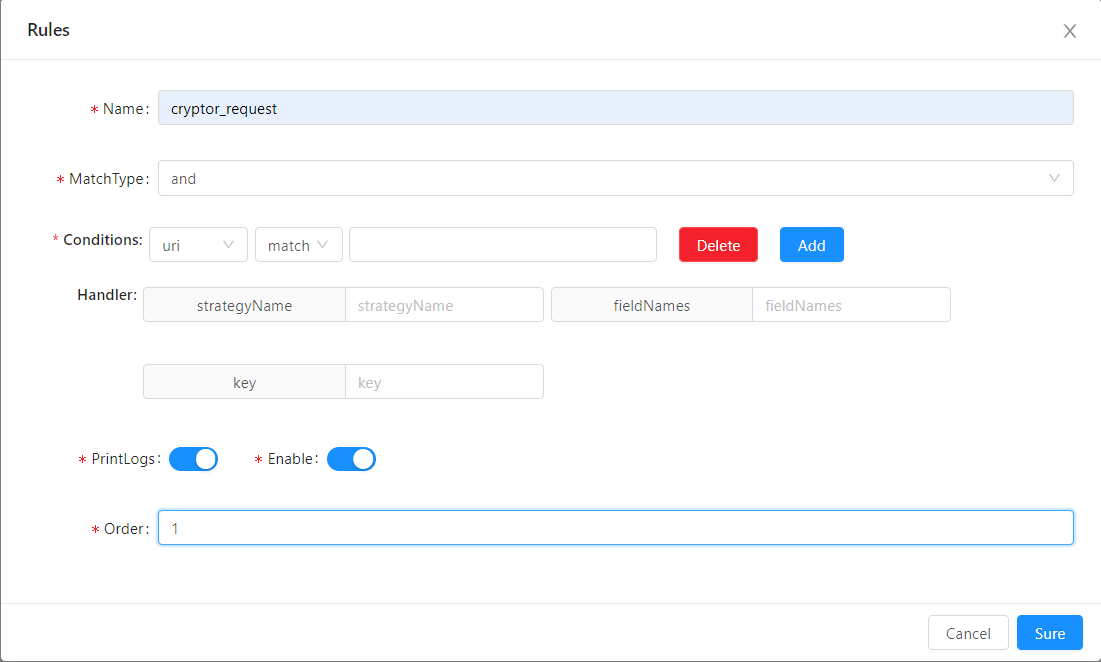
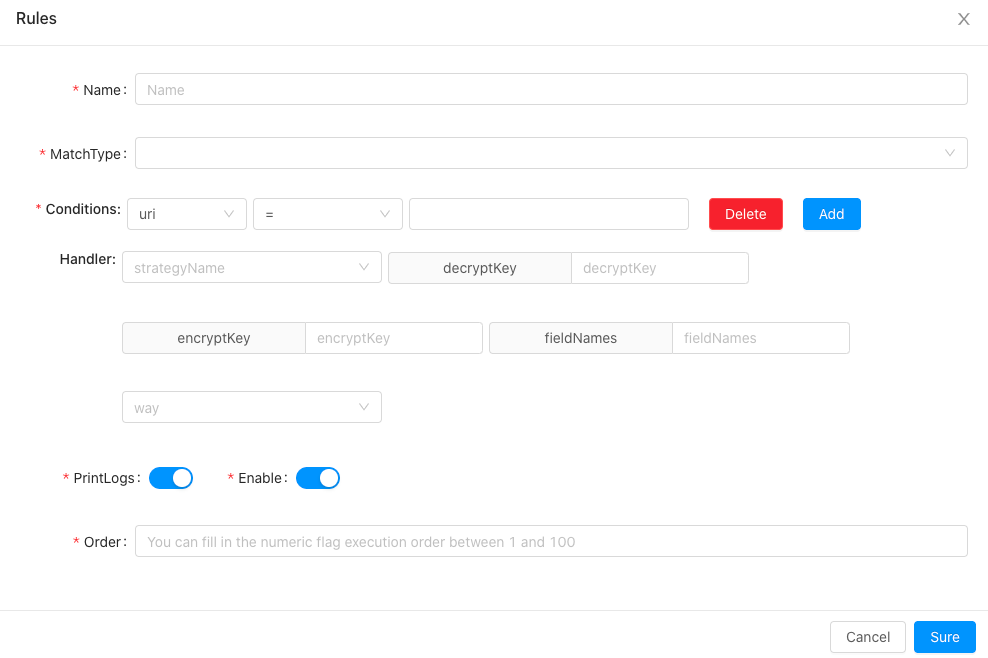
Update cryptor plugin pages (#342)

diff --git a/docs/plugin-center/authority-and-certification/cryptor-request-plugin.md b/docs/plugin-center/authority-and-certification/cryptor-request-plugin.md
@@ -36,7 +36,11 @@ description: CryptorRequest plugin
         }
 ```
 
-* key: Secret key. Used to decrypt data.
+* decryptKey: Secret key. Used to decrypt data.
+
+* encryptKey: Secret key. Used to encrypt data.
+
+* way: Select encrypt or decrypt.
 
 ## Plugin Use
 

diff --git a/docs/plugin-center/authority-and-certification/cryptor-response-plugin.md b/docs/plugin-center/authority-and-certification/cryptor-response-plugin.md
@@ -37,7 +37,11 @@ description: CryptorResponse plugin
     }
 ```
 
-* key: Secret key. Used to encrypt data.
+* decryptKey: Secret key. Used to decrypt data.
+
+* encryptKey: Secret key. Used to encrypt data.
+
+* way: Select encrypt or decrypt.
 
 ## Plugin Use
 

diff --git a/i18n/zh/docusaurus-plugin-content-docs/current/plugin-center/authority-and-certification/cryptor-response-plugin.md b/i18n/zh/docusaurus-plugin-content-docs/current/plugin-center/authority-and-certification/cryptor-response-plugin.md
@@ -36,7 +36,11 @@ description: CryptorResponse 插件
         }
 ```
 
-* key: 秘钥，用于加密数据。
+* decryptKey: 密钥，用于解密数据。
+
+* encryptKey: 密钥，用于加密数据。
+
+* way: 选择加密或解密。
 
 ## 插件使用
 

diff --git a/i18n/zh/docusaurus-plugin-content-docs/current/plugin-center/authority-and-certification/cryptor-request-plugin.md b/i18n/zh/docusaurus-plugin-content-docs/current/plugin-center/authority-and-certification/cryptor-request-plugin.md
@@ -36,7 +36,11 @@ description: CryptorRequest 插件
         }
 ```
 
-* key: 秘钥，用于解密数据。
+* decryptKey: 密钥，用于解密数据。
+
+* encryptKey: 密钥，用于加密数据。
+
+* way: 选择加密或解密。
 
 ## 插件使用
 
